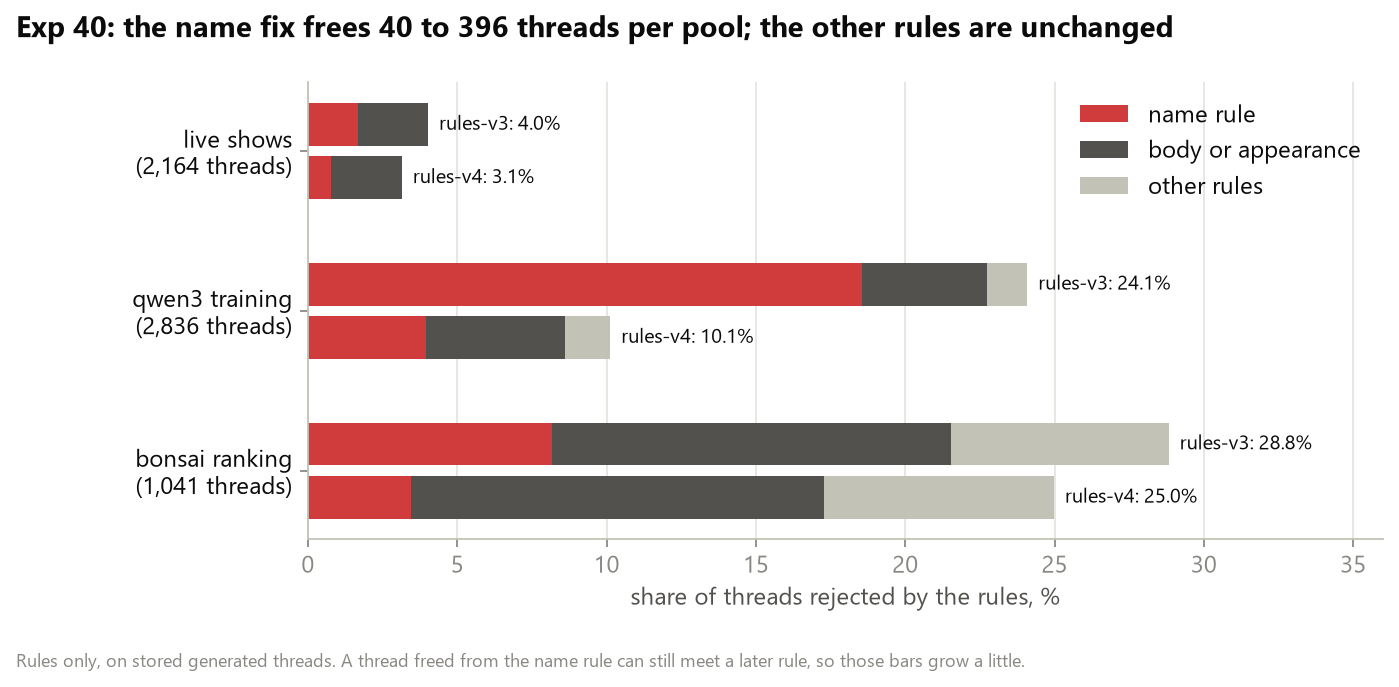
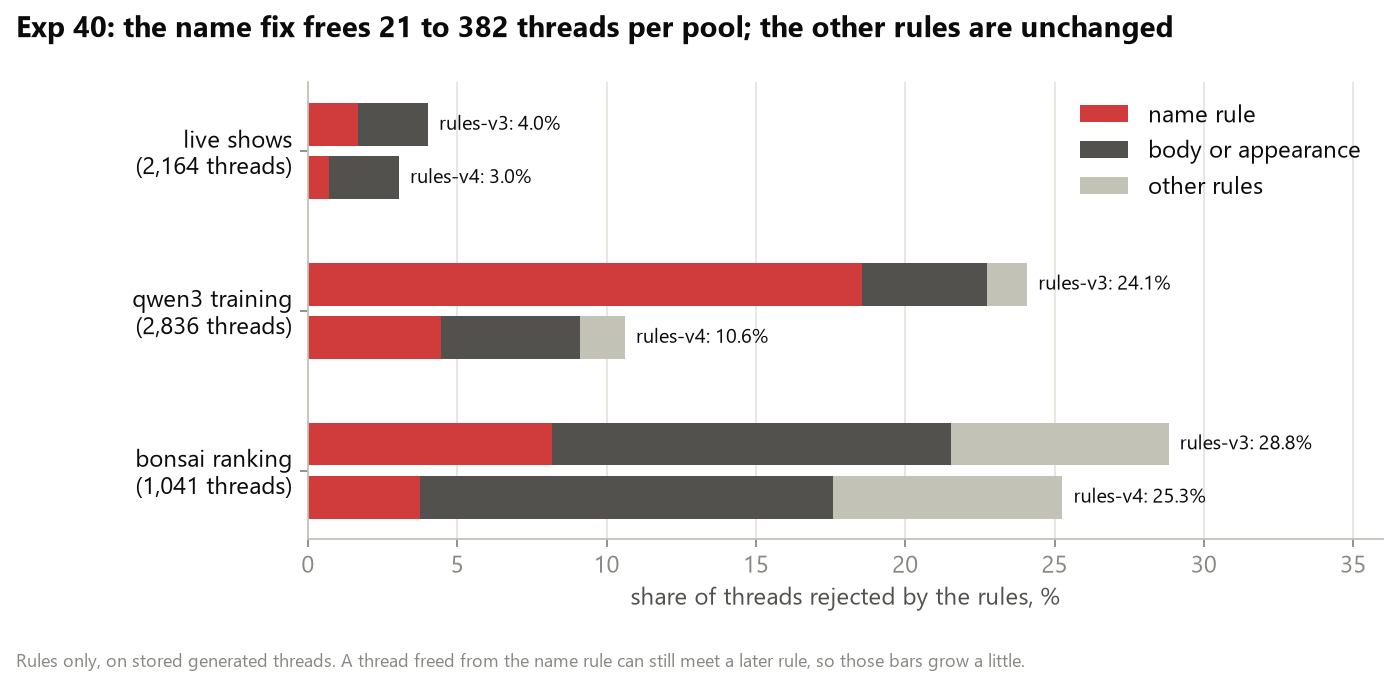
fix(sim): :bug: count every risky freed thread and make the hand check read all of them
flipped_unlisted_words subtracted a word list capped at 25, so qwen3's 58
was really 34; it is now counted per thread. The risky ones (first rejected
word not a plain word) are the threads a person must read, so the review
takes all of them plus a seeded 50 of the rest. Exp 40 re-recorded under
the final rules-v4, with five surname lines added to bar (a).

diff --git a/sim/name_check.py b/sim/name_check.py
@@ -5,8 +5,8 @@ rules as they were (rules-v3, read from git) and as they are, and compares per p
 the training bits (qwen3) and the generated candidate lines of logged live shows (never audience speech).
 
 Numbers only in the record: counts, and a word only when it is one of the plain words the fix added. No joke text is ever
-stored. `review` shows a seeded sample of the threads that flip to clean, one by one, and keeps your yes/no in a gitignored
-file; bar (b) of D-125 is that file.
+stored. `review` shows every freed thread whose first rejected word was not a plain word, then a seeded 50 of the other
+freed threads, one by one, and keeps your yes/no in a gitignored file; bar (b) of D-125 is that file.
 
     python -m sim.name_check run --ranking DIR --train DIR [--sessions DIR] [--record]
     python -m sim.name_check review --ranking DIR --train DIR [--sessions DIR]
@@ -51,8 +51,18 @@ MUST_STILL_REJECT = [
     "Oh, Dave did it again.",
     "That's what Priya said to me yesterday.",
     "My landlord Gregor unplugged me.",  # not a listed first name: a mid-sentence capital
+    # added in review: surnames that are not in FIRST_NAMES, right after a clause opener
+    "Breaking news: Musk unplugged me.",
+    "My boss said - Obama unplugged me.",
+    "My boss said — Bezos unplugged me.",
+    "He sighed… Gregor unplugged me again.",
+    "He said, 'Swift's the one who unplugged me.'",
 ]
 PLAIN = safety.SENTENCE_WORDS | safety.CAPS_OK  # the only words a record may list: none is a person
+
+
+def plain(word: str) -> bool:
+    return word in PLAIN or (word.endswith("'s") and word[:-2] in PLAIN)
 
 
 def load_before() -> types.ModuleType:
@@ -125,14 +135,19 @@ def count_pool(units: list[dict], before, after) -> tuple[dict, list[dict]]:
            "flipped": len(flipped),
            "named_person_v3": sum(words_before.values()), "named_person_v4": sum(words_after.values()),
            # the first rejected word per thread; only plain words are listed, the rest are only counted
-           "top_named_v3": [[w, c] for w, c in words_before.most_common() if w in PLAIN or w.rstrip("'s") in PLAIN][:25],
-           "other_named_v3": sum(c for w, c in words_before.items() if not (w in PLAIN or w.rstrip("'s") in PLAIN)),
+           "top_named_v3": [[w, c] for w, c in words_before.most_common() if plain(w)][:25],
+           "other_named_v3": sum(c for w, c in words_before.items() if not plain(w)),
            "top_flipped": [[w, c] for w, c in collections.Counter(
                rb[u["key"]].split(":", 1)[1] for u in flipped if rb[u["key"]].startswith("named_person:")
-           ).most_common() if w in PLAIN][:25]}
-    res["flipped_unlisted_words"] = sum(1 for u in flipped if rb[u["key"]].startswith("named_person:")) - sum(
-        c for _, c in res["top_flipped"])
+           ).most_common() if plain(w)][:25],
+           # counted from every freed thread, not from the capped list above
+           "flipped_unlisted_words": len(risky(flipped, rb))}
     return res, flipped
+
+
+def risky(flipped: list[dict], reasons: dict) -> list[dict]:
+    """Freed threads whose first word rejected by rules-v3 is not a plain word: the ones a person must read."""
+    return [u for u in flipped if not (r := reasons[u["key"]]).startswith("named_person:") or not plain(r.split(":", 1)[1])]
 
 
 def must_still_reject(after) -> dict:
@@ -148,9 +163,23 @@ def pools(ranking, train, sessions) -> dict[str, list[dict]]:
     return out
 
 
-def sample_flipped(flipped: dict[str, list[dict]], seed: int = SEED, n: int = SAMPLE) -> list[tuple[str, dict]]:
+def sample_flipped(flipped: dict[str, list[dict]], seed: int = SEED, n: int = SAMPLE,
+                   must: frozenset = frozenset()) -> list[tuple[str, dict]]:
+    """Every freed thread in `must` (pool|key, the risky ones), then a seeded n of the rest, all pools together."""
     allf = sorted(((p, u) for p, us in flipped.items() for u in us), key=lambda x: (x[0], x[1]["key"]))
-    return random.Random(seed).sample(allf, min(n, len(allf)))
+    forced = [x for x in allf if key_of(*x) in must]
+    rest = [x for x in allf if key_of(*x) not in must]
+    return forced + random.Random(seed).sample(rest, min(n, len(rest)))
+
+
+def freed(units_by_pool: dict[str, list[dict]], before, after) -> tuple[dict, dict, frozenset]:
+    """Per pool: counts, the freed threads, and the pool|key of every risky freed thread."""
+    per_pool, flipped, must = {}, {}, set()
+    for name, units in units_by_pool.items():
+        per_pool[name], flipped[name] = count_pool(units, before, after)
+        reasons = {u["key"]: first_reason(before, u) for u in flipped[name]}
+        must |= {key_of(name, u) for u in risky(flipped[name], reasons)}
+    return per_pool, flipped, frozenset(must)
 
 
 def key_of(pool: str, unit: dict) -> str:
@@ -177,15 +206,13 @@ def verdict(bar_a: dict, rev: dict) -> str:
 def run(before_ref: str = BEFORE_REF, seed: int = SEED, sample: int = SAMPLE, rules: str = "") -> dict:
     """Exp 40's record. Reads the paths in SOURCE; the params pin the rules and the sample, not the machine's folders."""
     before = load_before()
-    per_pool, flipped = {}, {}
-    for name, units in pools(**SOURCE).items():
-        per_pool[name], flipped[name] = count_pool(units, before, safety)
-    picked = sample_flipped(flipped, seed, sample)
+    per_pool, flipped, must = freed(pools(**SOURCE), before, safety)
+    picked = sample_flipped(flipped, seed, sample, must)
     bar_a = must_still_reject(safety)
     mine = {key_of(p, u) for p, u in picked}
     rev = review_summary({k: v for k, v in review_state().items() if k in mine}, len(picked))
     return {"rules_before": before.RULES_VERSION, "rules_after": safety.RULES_VERSION, "pools": per_pool,
-            "bar_a": bar_a, "bar_b": rev, "verdict": verdict(bar_a, rev)}
+            "bar_a": bar_a, "bar_b": {**rev, "risky_all_read": len(must)}, "verdict": verdict(bar_a, rev)}
 
 
 SOURCE = {"ranking": ROOT / "data/dpo/bits/ranking", "train": ROOT / "data/dpo/bits/train-qwen3",
@@ -244,11 +271,8 @@ def main() -> None:
         print(table(res))
         print(f"bar (a): {res['bar_a']}; bar (b): {res['bar_b']}; verdict: {res['verdict']}")
     else:
-        before = load_before()
-        flipped = {}
-        for name, units in pools(a.ranking, a.train, a.sessions).items():
-            flipped[name] = count_pool(units, before, safety)[1]
-        review(sample_flipped(flipped))
+        _, flipped, must = freed(pools(a.ranking, a.train, a.sessions), load_before(), safety)
+        review(sample_flipped(flipped, must=must))
 
 
 if __name__ == "__main__":

diff --git a/tests/test_name_check.py b/tests/test_name_check.py
@@ -47,6 +47,25 @@ def test_the_record_lists_only_plain_words_never_a_name(tmp_path):
     assert "Dave" not in json.dumps(res) and "Gregor" not in json.dumps(res)
 
 
+def test_the_unlisted_count_covers_every_freed_thread_not_only_the_listed_top_25(tmp_path):
+    words = sorted(safety.SENTENCE_WORDS)[:40]  # 40 distinct plain words, each freed once
+    write_bits(tmp_path, [[f"He told me {w} twice."] for w in words])
+    before = nc.load_before()
+    units = [u for u in nc.read_bits(tmp_path) if not before.check_rules(u["lines"][0], "mixed").ok]
+    res, flipped = nc.count_pool(units, before, safety)
+    assert res["flipped"] == len(flipped) > 25 and len(res["top_flipped"]) == 25
+    assert res["flipped_unlisted_words"] == 0
+
+
+def test_the_review_reads_every_risky_freed_thread_and_a_seeded_50_of_the_rest():
+    flipped = {"a": [{"key": f"k{i}"} for i in range(80)], "b": [{"key": "x"}]}
+    must = frozenset({"b|x", "a|k3"})
+    picked = nc.sample_flipped(flipped, must=must)
+    keys = [nc.key_of(p, u) for p, u in picked]
+    assert keys[:2] == ["a|k3", "b|x"] and len(keys) == 2 + nc.SAMPLE and len(set(keys)) == len(keys)
+    assert picked == nc.sample_flipped(flipped, must=must)
+
+
 def test_a_threads_age_is_used_for_the_teen_rules(tmp_path):
     write_bits(tmp_path, [["We all went out for a beer."]], age="teens")
     res, _ = nc.count_pool(nc.read_bits(tmp_path), nc.load_before(), safety)
@@ -108,5 +127,11 @@ def test_run_reads_the_sources_and_leaves_the_verdict_pending_without_a_review(t
     monkeypatch.setattr(nc, "REVIEW_FILE", tmp_path / "review.json")
     res = nc.run()
     assert list(res["pools"]) == ["bonsai ranking", "qwen3 training"]  # no live-shows pool when there are no logs
-    assert res["bar_b"] == {"sample": 1, "reviewed": 0, "unsafe_or_real_name": 0} and res["verdict"] == "pending"
+    assert res["bar_b"] == {"sample": 1, "reviewed": 0, "unsafe_or_real_name": 0, "risky_all_read": 0} and res["verdict"] == "pending"
     assert "| bonsai ranking | 2 | 1 (50.0%) | 0 (0.0%) | 1 |" in nc.table(res)
+
+
+def test_a_freed_thread_is_risky_unless_its_first_rejected_word_was_a_plain_word():
+    units = [{"key": "a"}, {"key": "b"}, {"key": "c"}, {"key": "d"}]
+    reasons = {"a": "named_person:That's", "b": "named_person:Market", "c": "named_person:TikTok's", "d": "blocklist:x"}
+    assert [u["key"] for u in nc.risky(units, reasons)] == ["b", "d"]
